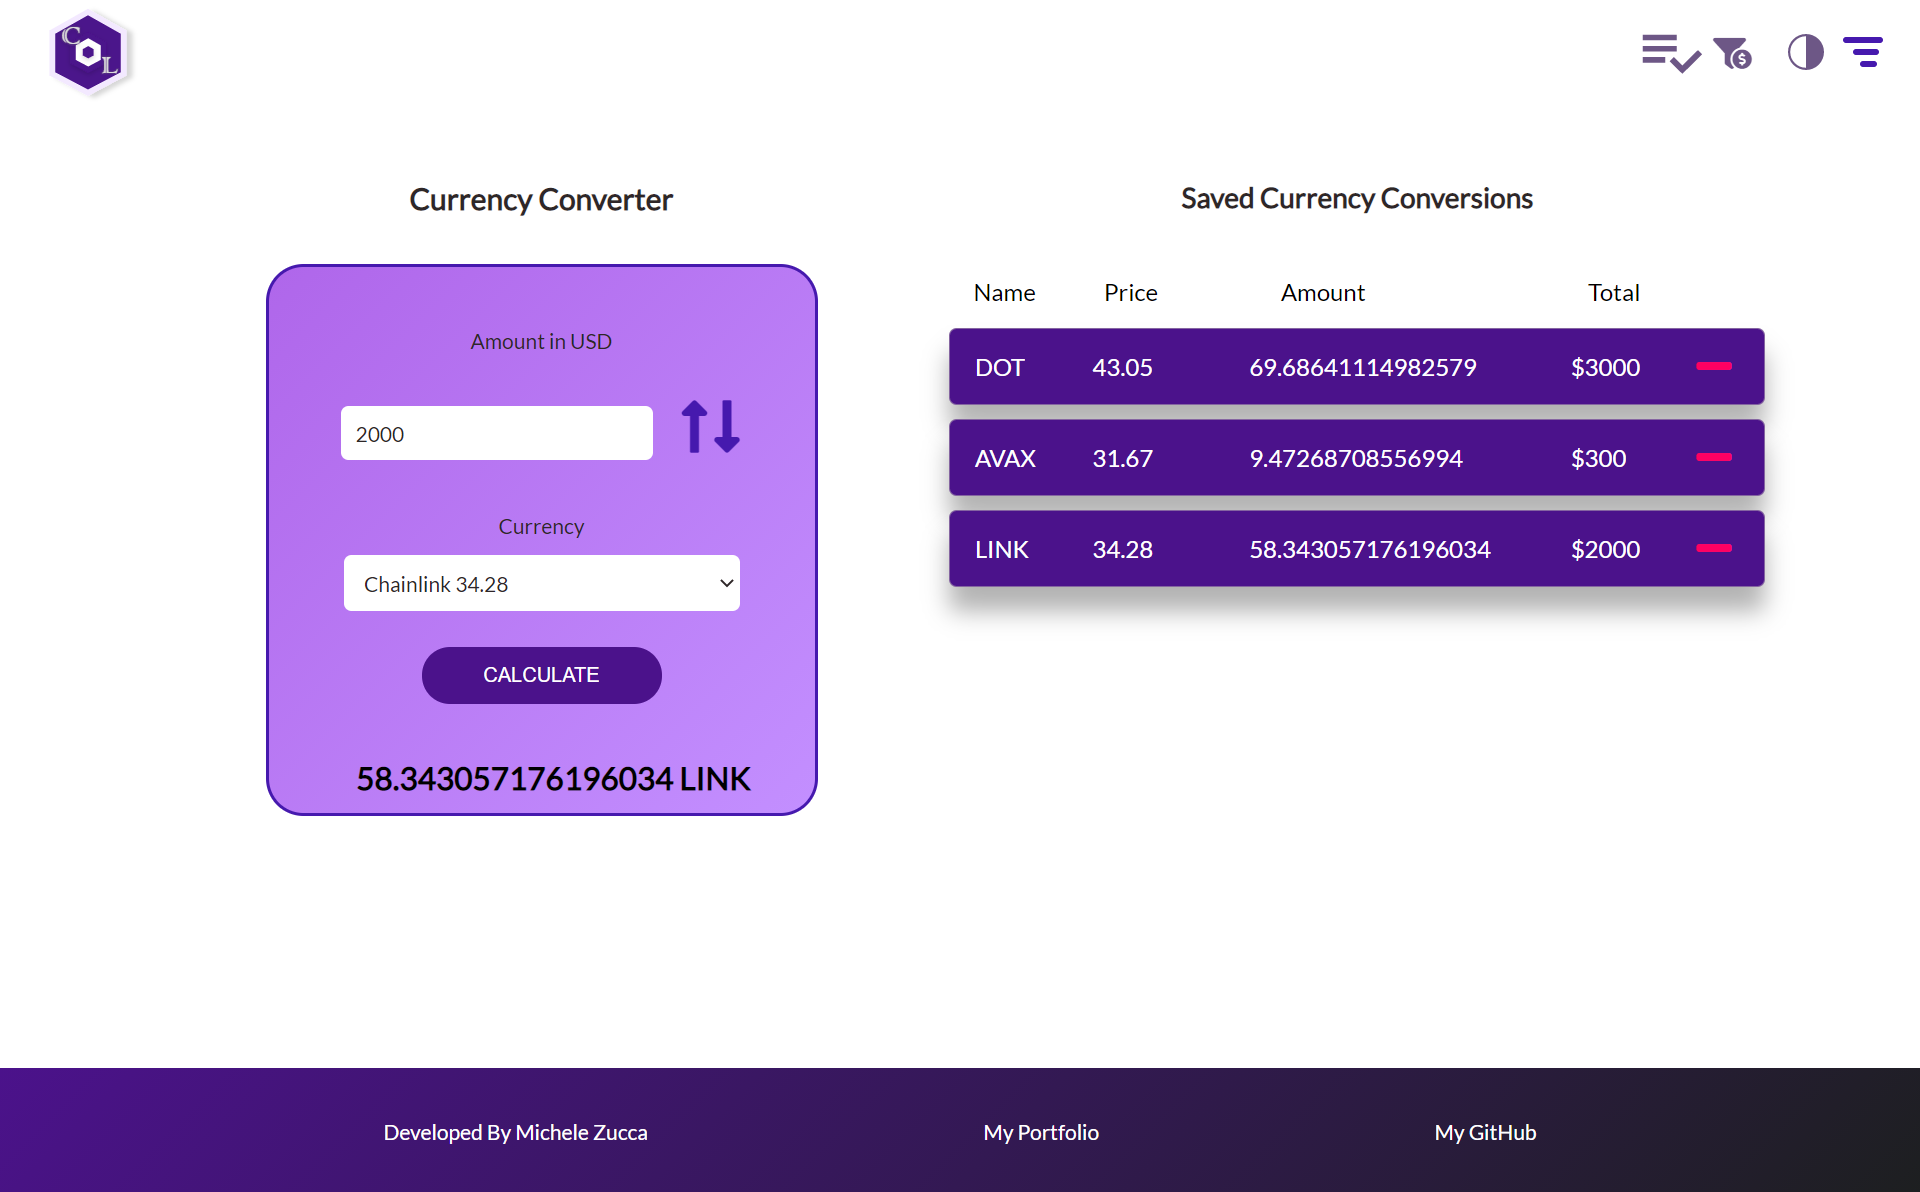
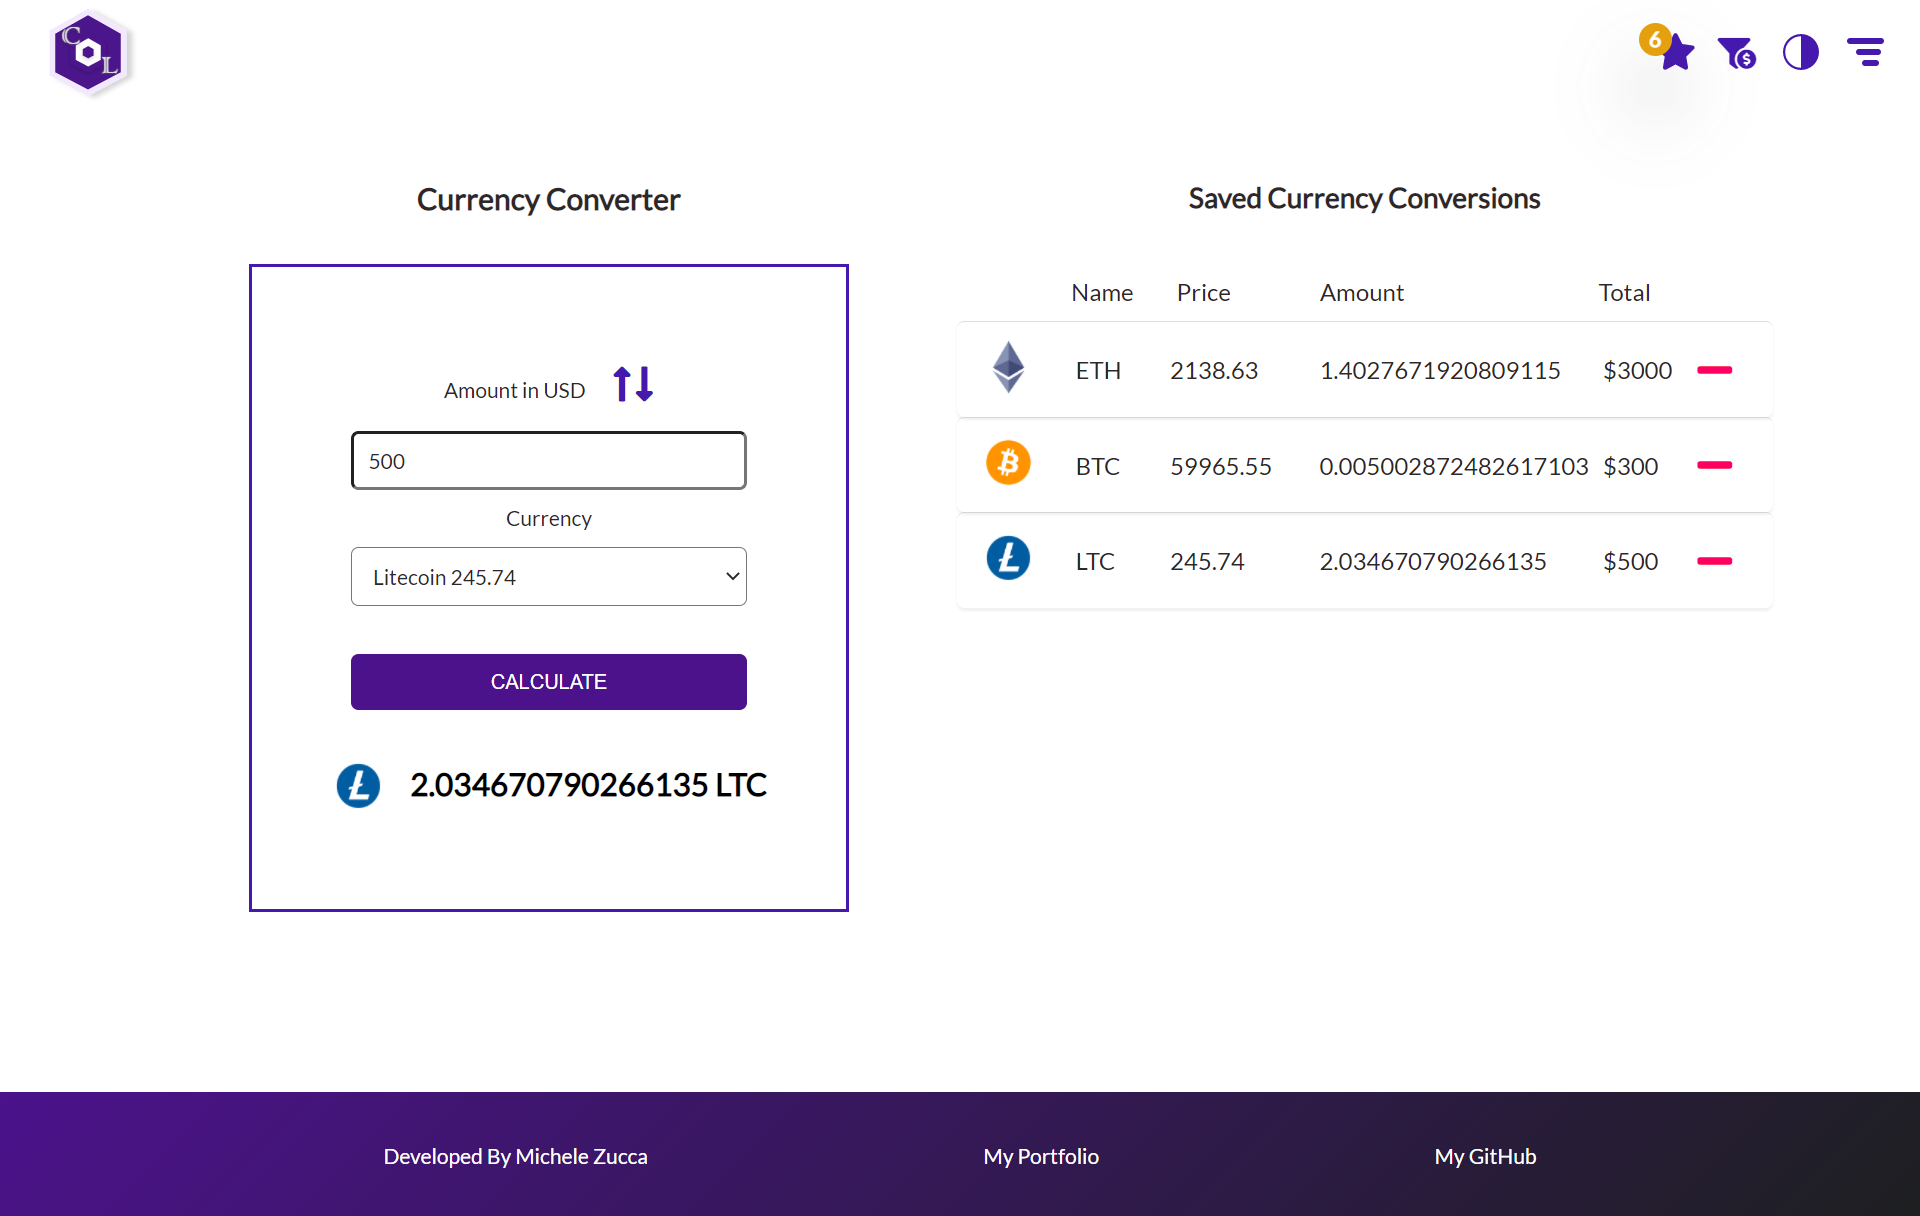
refactor: added Image component to TopGainerItem

diff --git a/src/components/TopGainerItem/index.tsx b/src/components/TopGainerItem/index.tsx
@@ -1,40 +1,43 @@
-import React, { useContext } from "react";
+import React, { useContext } from 'react'
 import { NavLink } from 'react-router-dom'
 
 import { ThemeContext } from '../../contexts'
 import { TopGainerProps } from '../../types'
+import Image from '../Image'
 
-import "./style.scss";
+import './style.scss'
 
-const TopGainer = ({ 
-  id, 
-  image, 
-  name, 
-  symbol, 
-  price, 
-  percentageChange 
+const TopGainerItem = ({
+  id,
+  image,
+  name,
+  symbol,
+  price,
+  percentageChange,
 }: TopGainerProps) => {
   const { theme } = useContext(ThemeContext)
   return (
     <NavLink to={`/crypto/${id}`} className="top-gainer-link">
       <div className="top-gainer grow">
-        <img
-          src={`https://www.cryptocompare.com${image}`}
-          className="top-gainer__img"
-          alt="crypto"
-        />
-        <h3 className="top-gainer__name" style={{color: theme.homeBanner}}>{name}</h3>
-        <p className="top-gainer__details" style={{color: theme.text}}>{symbol}</p>
-        <p className="top-gainer__details" style={{color: theme.text}}>{price}</p>
+        <Image image={image} name={name} medium />
+        <h3 className="top-gainer__name" style={{ color: theme.homeBanner }}>
+          {name}
+        </h3>
+        <p className="top-gainer__details" style={{ color: theme.text }}>
+          {symbol}
+        </p>
+        <p className="top-gainer__details" style={{ color: theme.text }}>
+          {price}
+        </p>
         <p
           className="top-gainer__details"
-          style={percentageChange > 0 ? { color: "green" } : { color: "red" }}
+          style={percentageChange > 0 ? { color: 'green' } : { color: 'red' }}
         >
           {percentageChange}%
         </p>
       </div>
     </NavLink>
-  );
-};
+  )
+}
 
-export default TopGainer;
+export default TopGainerItem

diff --git a/src/components/SavedCurrencyTable/style.scss b/src/components/SavedCurrencyTable/style.scss
@@ -14,14 +14,12 @@
         grid-template-columns: 12% 12% 19% 36% 12% 7%;
         justify-items: flex-start;
         align-items: center;
-        margin: .3rem;
+        // margin: .3rem;
         min-width: 34rem;
-        border: 1px solid rgba(192, 183, 183, 0.5);
+        border-top: 1px solid rgba(192, 183, 183, 0.5);
         padding: .5rem .6rem;
         border-radius: 5px;
-        box-shadow: 0 1rem 1rem rgba(0, 0, 0, 0.3);
-        // background-color: var(--primary);
-        // color: white;
+        box-shadow: 0 .1rem .1rem rgba(212, 206, 206, 0.3);
         td {
             padding: .2rem .4rem;
         }

diff --git a/src/components/CurrencyConverterFormCrypto/index.tsx b/src/components/CurrencyConverterFormCrypto/index.tsx
@@ -35,7 +35,7 @@ const CurrencyConverterFormCrypto = ({
 
       <div className="inputs-arrows__container">
         <input
-          type="text"
+          type="number"
           name="amount"
           value={amount}
           placeholder="amount in $"
@@ -81,7 +81,7 @@ const CurrencyConverterFormCrypto = ({
       <div className="result-container">
         {result > 0 && (
           <>
-            <Image image={image} name={resultSymbol} />
+            <Image image={image} name={resultSymbol} small />
             <h2 className="result-symbol">
               {result} {resultSymbol}
             </h2>

diff --git a/src/components/CurrencyConverterFormUsd/index.tsx b/src/components/CurrencyConverterFormUsd/index.tsx
@@ -32,7 +32,7 @@ const CurrencyConverterFormUsd = ({
 
       <div className="inputs-arrows__container">
         <input
-          type="text"
+          type="number"
           name="amount"
           value={amount}
           placeholder="amount in crypto"
@@ -67,7 +67,7 @@ const CurrencyConverterFormUsd = ({
           onClick={saveCurrencyConversion}
           className="currency-converter-form__btn-save"
         >
-          <i className="fas fa-plus-circle grow"></i>
+          Save Currency
         </button>
       )}
       <div className="warning">{warning}</div>
